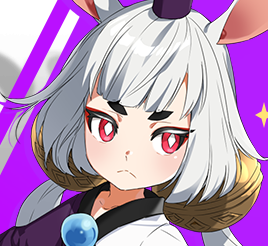
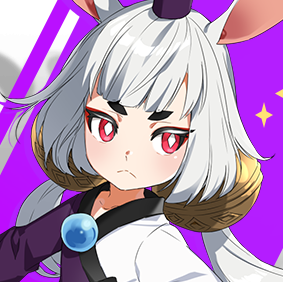
chats_basis

diff --git a/chats_style.css b/chats_style.css
@@ -49,6 +49,14 @@ h1 {
   font-size: 30px;
   font-weight: 500;
 }
+h3 {
+  margin-left: 10px;
+  font-size: 22px;
+  font-weight: 500;
+}
+h4 {
+  font-weight: 500;
+}
 .chats__icon {
   margin-right: 20px;
 }
@@ -59,7 +67,6 @@ h1 {
   justify-content: space-between;
   padding: 0px 30px 15px 15px;
   box-sizing: border-box;
-  border-bottom: 0.3px solid rgb(151, 151, 151);
 }
 .user-component__mid-clolumn {
   display: flex;
@@ -72,6 +79,12 @@ h1 {
 }
 .user-component__mid-clolumn-number h4 {
   margin-right: 5px;
+}
+.user-component__mid-clolumn__cover img {
+  width: 70px;
+  height: 70px;
+  border-radius: 22px;
+  margin: 0 5px;
 }
 
 .nav__list {

diff --git a/chats.html b/chats.html
@@ -31,8 +31,8 @@
 
         <section class="user-component_mid">
             <div class="user-component__mid-clolumn">
-                <div class="user-component__mid-clolumn__cover"><img src="#"></div>
-                <h3 class="user-component__mid-clolumn__username">KakaoTalk</h3>
+                <div class="user-component__mid-clolumn__cover"><img src="jpeg/johann.png"></div>
+                <h3 class="user-component__mid-clolumn__username">JOHANN</h3>
             </div>
             <div class="user-component__mid-clolumn-number"> 
                 <h4>10</h4>
